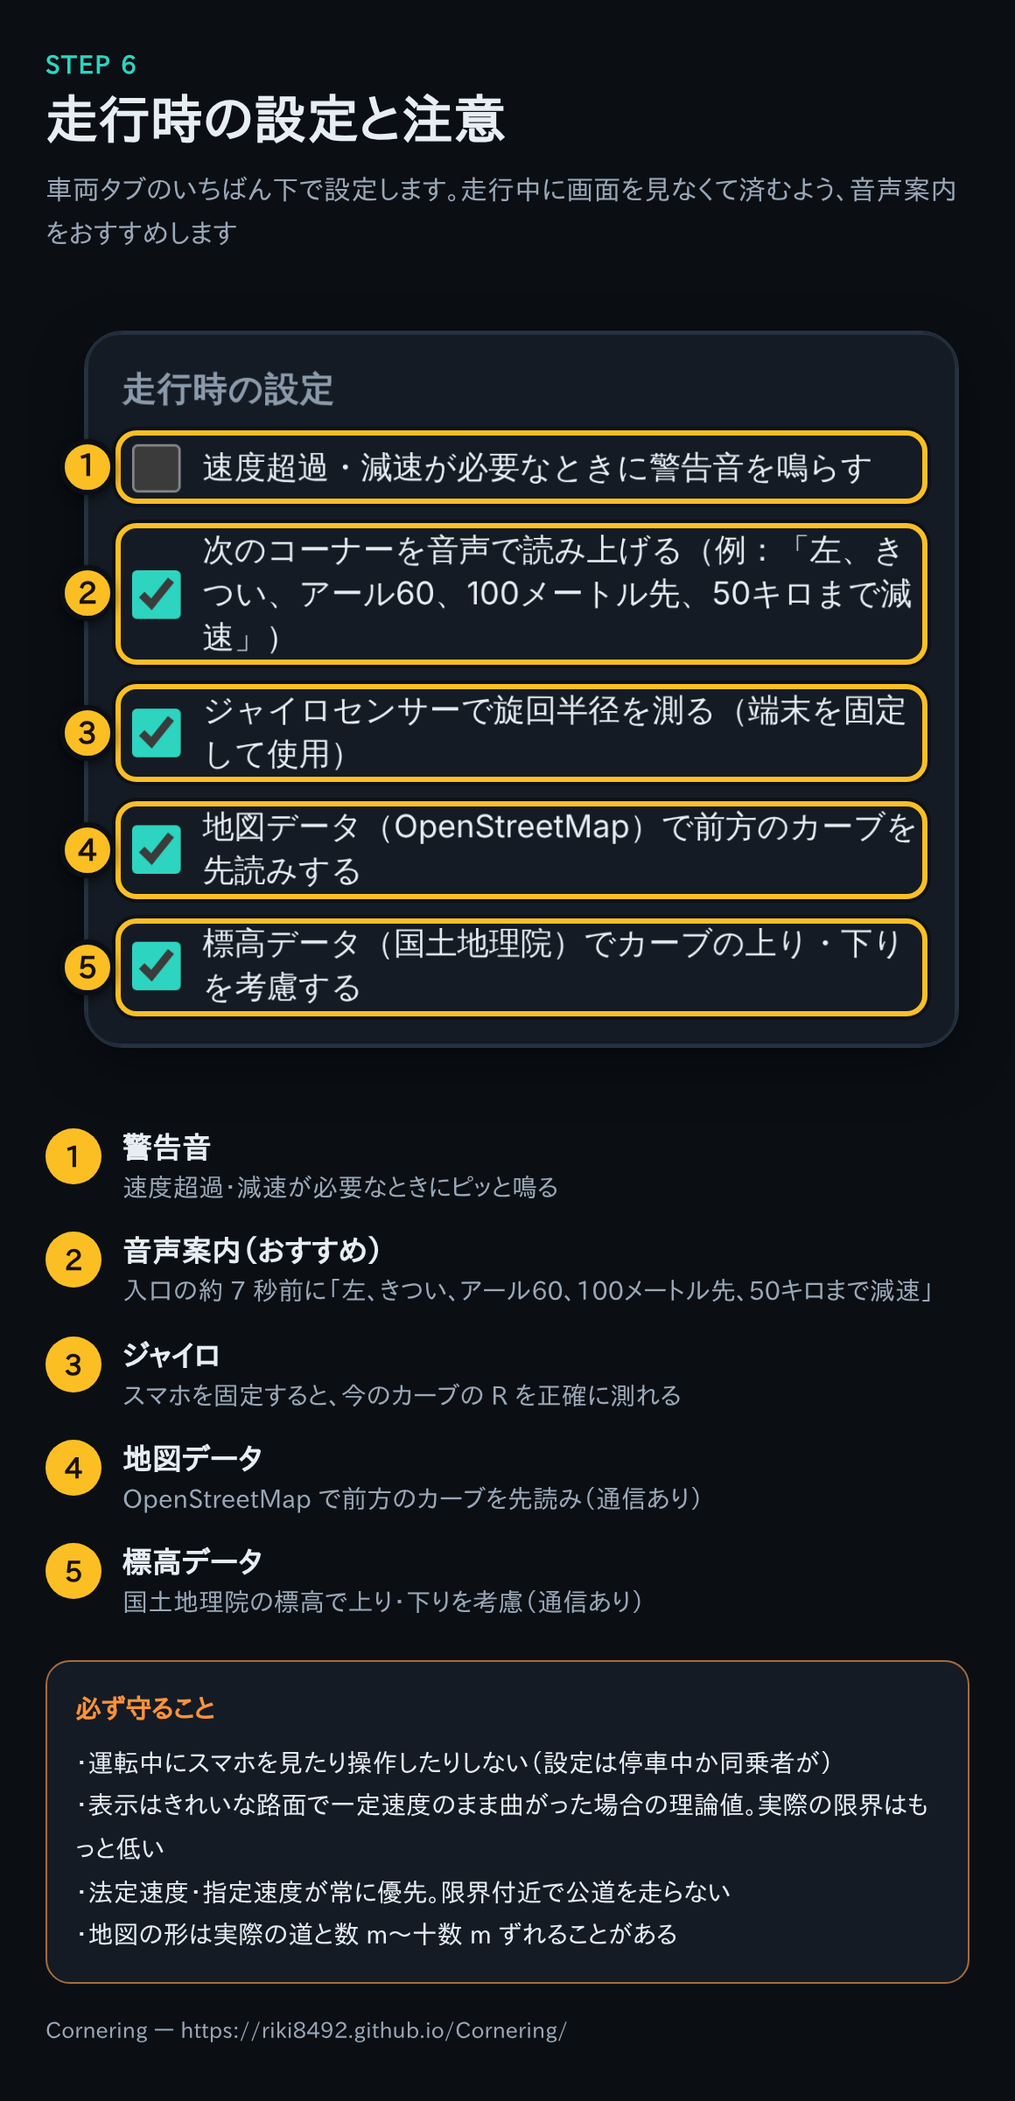
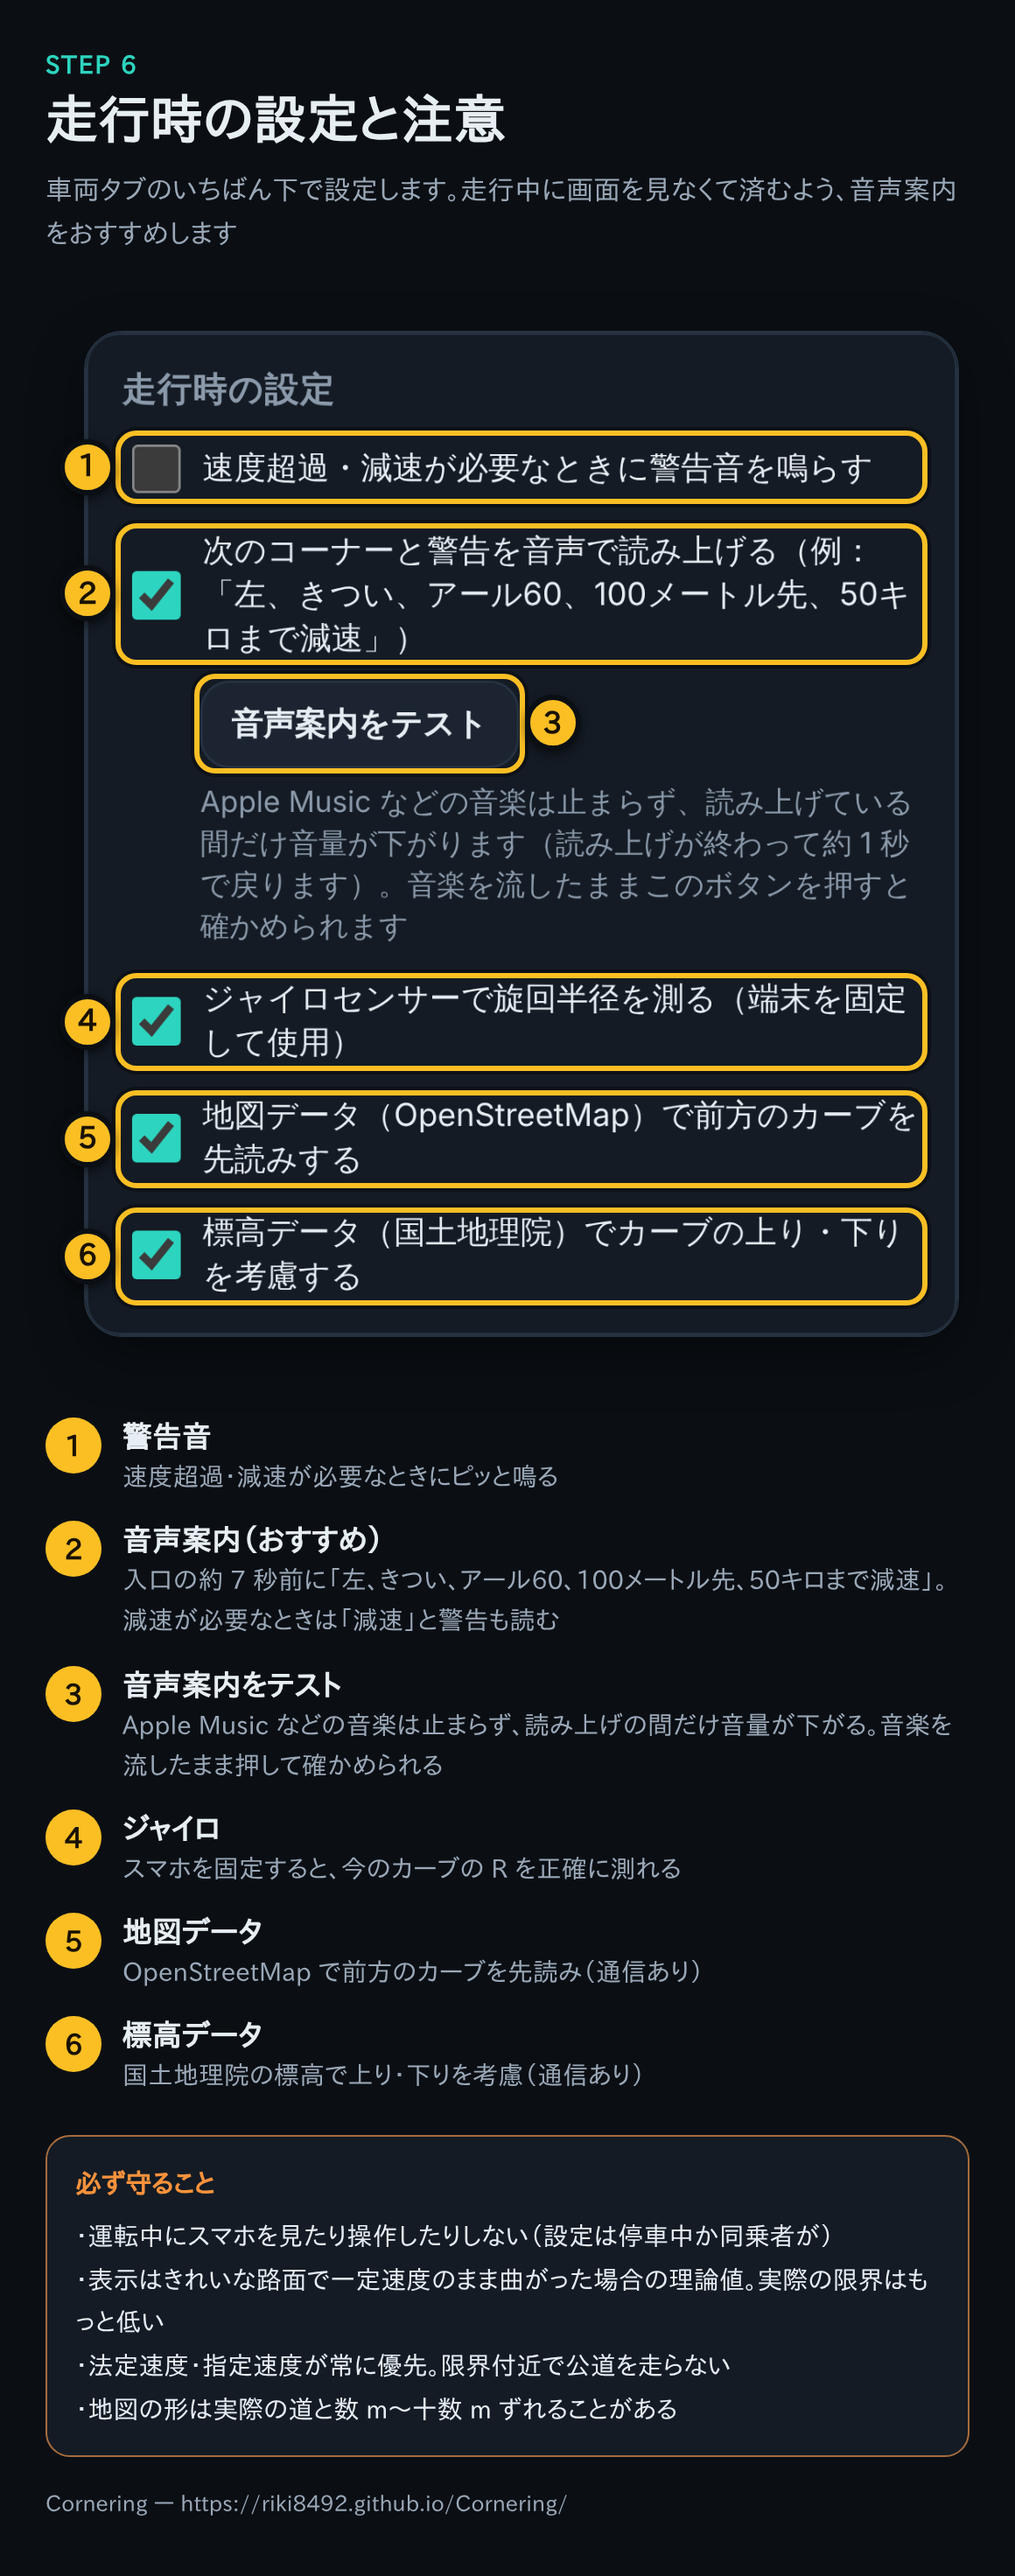
音楽を止めずに音声案内し、警告も読み上げる
Apple Music などを聞きながら走れるよう、音声まわりを見直した。
iPhone の Safari の読み上げは、ほかのアプリの音楽を止めずに読み上げの
間だけ音量を下げる（WebKit の不具合報告 278598 で確認できる動作）。
警告音の Web Audio も、仕様上は「ほかの音と混ぜて鳴らす」扱いで音楽を
止めない。そのうえで次を直した。

- 音声案内がオンなら、減速が必要なときの警告も「減速」「危険、急減速」と
  読み上げる。警告音は音楽の音量を下げないため、音楽に埋もれやすい。
  警告が強くなったときに一度だけ読み、警告が消えて 3 秒たったら次の
  警告をまた読む。「危険」は読み上げ中の案内を止めてすぐ読む
- 端末にある日本語の声のうち、拡張版（Enhanced / Premium）があれば
  それを使う
- 設定に「音声案内をテスト」ボタンを追加。音楽を流したまま押して、
  止まらずに音量が下がるかを確かめられる
- 声の一覧が取れない環境で、アプリ全体が起動しなくなる問題を防いだ
- 説明タブ・README・解説画像（STEP 6）に音楽との関係を追記

Claude-Session: https://claude.ai/code/session_01Pe4ge4SDMQG9C2WNegrDfR

diff --git a/index.html b/index.html
@@ -303,8 +303,12 @@
             </label>
             <label class="field wide check">
               <input data-pref="voice" type="checkbox" />
-              <span>次のコーナーを音声で読み上げる（例：「左、きつい、アール60、100メートル先、50キロまで減速」）</span>
+              <span>次のコーナーと警告を音声で読み上げる（例：「左、きつい、アール60、100メートル先、50キロまで減速」）</span>
             </label>
+            <div class="wide voice-test">
+              <button class="btn small" id="btn-voice-test" type="button">音声案内をテスト</button>
+              <p class="hint">Apple Music などの音楽は止まらず、読み上げている間だけ音量が下がります（読み上げが終わって約 1 秒で戻ります）。音楽を流したままこのボタンを押すと確かめられます</p>
+            </div>
             <label class="field wide check">
               <input data-pref="gyro" type="checkbox" />
               <span>ジャイロセンサーで旋回半径を測る（端末を固定して使用）</span>
@@ -339,7 +343,7 @@
             <li><b>この先のカーブ（地図）</b>：OpenStreetMap の道路形状に現在地を当てはめ、道なりに先読みして曲率を計算します。交差点では最も直進に近い道を選びます</li>
             <li><b>現在のカーブ（計測）</b>：ジャイロのヨーレート ω から R = v / ω、ジャイロが無ければ GPS の進行方位の変化率、さらに無ければ GPS 軌跡への円の当てはめで求めます</li>
             <li><b>入口・出口の標高</b>：国土地理院の標高タイル（10m メッシュ）を道路に沿って引き、カーブの入口と出口の標高差から勾配を求めます（国外は AWS Terrain Tiles）。橋・トンネルは地表の標高が使えないので前後から補間します</li>
-            <li><b>次のコーナー</b>：向き・きつさ（ヘアピン R30 未満／きつい 〜60／ややきつい 〜120／ゆるい 〜250／ごくゆるい）・入口までの距離と秒数を表示し、カードの色で状況を示します（緑：安全上限以下、橙：減速が必要、赤：入口までに強いブレーキが必要か、カーブの中で限界超え）。道路形状と地図では次のコーナーだけを太い帯・入口の線・大きなラベルで強調します。設定で音声案内をオンにすると、入口の約 7 秒前に「左、きつい、アール60、100メートル先、50キロまで減速」のように読み上げます</li>
+            <li><b>次のコーナー</b>：向き・きつさ（ヘアピン R30 未満／きつい 〜60／ややきつい 〜120／ゆるい 〜250／ごくゆるい）・入口までの距離と秒数を表示し、カードの色で状況を示します（緑：安全上限以下、橙：減速が必要、赤：入口までに強いブレーキが必要か、カーブの中で限界超え）。道路形状と地図では次のコーナーだけを太い帯・入口の線・大きなラベルで強調します。設定で音声案内をオンにすると、入口の約 7 秒前に「左、きつい、アール60、100メートル先、50キロまで減速」のように読み上げ、減速が必要なときは「減速」「危険、急減速」と警告も読み上げます。Apple Music などの音楽は止まらず、読み上げている間だけ音量が下がります</li>
             <li><b>地図・現在地</b>：走行画面の「地図・現在地」で、現在地（進行方向の矢印）・走った軌跡・この先の道路（色分け）とカーブの R を地図上に表示します。地図を指で動かすと追従が止まり、「現在地」ボタンで戻ります。右上のボタンで地理院地図・航空写真・OpenStreetMap を切り替えられます</li>
           </ul>
         </article>

diff --git a/js/app.js b/js/app.js
@@ -16,7 +16,17 @@ import {
   presetToVehicle,
 } from './presets.js';
 import { loadLeaflet, DriveMap } from './mapview.js';
-import { classifyCorner, dirLabel, secondsTo, announceDistance, cornerSpeech, isAnnounced, approachState } from './corner.js';
+import {
+  classifyCorner,
+  dirLabel,
+  secondsTo,
+  announceDistance,
+  cornerSpeech,
+  isAnnounced,
+  approachState,
+  pickJapaneseVoice,
+  alertToSpeak,
+} from './corner.js';
 
 const STORE_KEY = 'cornering.v1';
 const $ = (sel) => document.querySelector(sel);
@@ -764,6 +774,8 @@ async function start(kind) {
   stop();
   if (state.prefs.sound) ensureAudio();
   if (state.prefs.voice) speak('案内を開始します');
+  alertVoiceState.rank = 0;
+  alertVoiceState.clearSince = null;
   motion.reset();
   gpsError = '';
   gradeFallback = null;
@@ -845,7 +857,13 @@ function beep(freq, count) {
 }
 
 function soundFor(alert) {
-  if (!state.prefs.sound || !alert || mode === 'off') return;
+  if (mode === 'off') return;
+  // 音声案内がオンなら、警告も言葉で伝える（音楽を聞いていてもビープ音より聞き取りやすい）
+  if (state.prefs.voice) {
+    const text = alertToSpeak(alertVoiceState, alert?.level || null, Date.now());
+    if (text) speak(text, { interrupt: alert.level === 'danger' });
+  }
+  if (!state.prefs.sound || !alert) return;
   const now = Date.now();
   if (alert.level === 'danger' && now - lastBeep > 1500) {
     beep(1320, 3);
@@ -857,14 +875,46 @@ function soundFor(alert) {
 }
 
 // ---------- 音声案内 ----------
+// iPhone の Safari の読み上げは、Apple Music などほかのアプリの音楽を止めずに、
+// 読み上げている間だけ音量を下げる（終わって約 1 秒で戻る）。警告音（Web Audio）は
+// 「ほかの音と混ぜて鳴らす」扱いなので、こちらも音楽を止めない。
+// 音楽を止めてしまう <audio> 要素などは使わないこと
 const announced = []; // 読み上げ済みのコーナー区間 {dir, pts: [[lat, lon], ...]}
+const alertVoiceState = { rank: 0, clearSince: null }; // 警告の読み上げ状態
 const canSpeak = () => 'speechSynthesis' in window && typeof SpeechSynthesisUtterance === 'function';
+let jaVoice = null;
 
-function speak(text) {
+/** 日本語の声を選び直す。声の一覧が取れない環境でもアプリ全体を止めないよう、失敗は無視する */
+function loadVoice() {
+  try {
+    const list = window.speechSynthesis?.getVoices?.() || [];
+    jaVoice = pickJapaneseVoice(list) || jaVoice;
+  } catch {
+    /* 既定の声で読む */
+  }
+}
+if (canSpeak()) {
+  loadVoice();
+  // 声の一覧は後から届くことがある
+  try {
+    window.speechSynthesis.addEventListener?.('voiceschanged', loadVoice);
+  } catch {
+    /* 無視 */
+  }
+}
+
+/**
+ * @param {string} text
+ * @param {{interrupt?:boolean}} [o] interrupt: 読み上げ中のものを止めてすぐ読む（危険の警告）
+ */
+function speak(text, o = {}) {
   if (!canSpeak()) return;
+  if (o.interrupt) window.speechSynthesis.cancel?.();
   const u = new SpeechSynthesisUtterance(text);
   u.lang = 'ja-JP';
-  u.rate = 1.1;
+  if (jaVoice) u.voice = jaVoice;
+  u.rate = 1.05;
+  u.volume = 1;
   window.speechSynthesis.speak(u);
 }
 
@@ -1327,6 +1377,13 @@ function init() {
   bindPresets();
   bindTabs();
   bindPanels();
+  // 音楽を流したまま押して、止まらずに音量が下がるかを確かめる
+  $('#btn-voice-test').addEventListener('click', () => {
+    loadVoice();
+    speak(`音声案内のテストです。${cornerSpeech({ dir: 'left', R: 58, distStart: 100 }, 50 / 3.6, 70 / 3.6)}`, {
+      interrupt: true,
+    });
+  });
   $('#btn-start').addEventListener('click', () => (mode === 'gps' ? stop() : start('gps')));
   $('#btn-demo').addEventListener('click', () => (mode === 'demo' ? stop() : start('demo')));
   window.addEventListener('resize', scheduleRender);

diff --git a/js/corner.js b/js/corner.js
@@ -45,6 +45,43 @@ export function cornerSpeech(c, vRec, v) {
 }
 
 /**
+ * 読み上げに使う日本語の声を選ぶ。拡張（Enhanced / Premium）の声があれば聞き取りやすいので優先する
+ * @param {Array<{name:string, lang:string, localService?:boolean}>} voices speechSynthesis.getVoices() の結果
+ */
+export function pickJapaneseVoice(voices) {
+  const ja = (voices || []).filter((v) => /^ja([-_]|$)/i.test(v.lang || ''));
+  if (!ja.length) return null;
+  const score = (v) =>
+    (/(enhanced|premium|拡張|高品質)/i.test(v.name) ? 4 : 0) + (v.localService ? 1 : 0) + (/^ja[-_]JP$/i.test(v.lang) ? 1 : 0);
+  return ja.reduce((best, v) => (score(v) > score(best) ? v : best), ja[0]);
+}
+
+/** 警告の読み上げ文言（音楽を聞いているとビープ音は埋もれやすいので、言葉でも伝える） */
+export const ALERT_SPEECH = { brake: '減速', danger: '危険、急減速' };
+
+/**
+ * 警告を読み上げるかどうか。警告が強くなったときに一度だけ読み上げ、同じ強さでは繰り返さない。
+ * 警告が消えて 3 秒たったら、次の警告をまた読み上げられるようにする
+ * @param {{rank:number, clearSince:number|null}} st 前回までの状態（呼ぶたびに更新する）
+ * @param {'caution'|'brake'|'danger'|null} level 今の警告
+ * @param {number} now [ms]
+ * @returns {string|null} 読み上げる文言
+ */
+export function alertToSpeak(st, level, now) {
+  const rank = { brake: 1, danger: 2 }[level] || 0;
+  // 警告が消えてから 3 秒以上たっていれば、次の警告は新しいものとして読む
+  if (st.clearSince != null && now - st.clearSince >= 3000) st.rank = 0;
+  if (rank === 0) {
+    if (st.clearSince == null) st.clearSince = now;
+    return null;
+  }
+  st.clearSince = null;
+  if (rank <= st.rank) return null;
+  st.rank = rank;
+  return ALERT_SPEECH[level];
+}
+
+/**
  * 同じコーナーを二度読み上げないための判定。
  * 頂点（いちばんきつい点）は更新のたびに揺れ、長くゆるいカーブでは区間内のどこへでも動く。
  * そこで読み上げ済みのカーブは区間全体の点列で覚えておき、

diff --git a/tests/corner.test.js b/tests/corner.test.js
@@ -7,7 +7,35 @@ import {
   cornerSpeech,
   isAnnounced,
   approachState,
+  pickJapaneseVoice,
+  alertToSpeak,
 } from '../js/corner.js';
+
+test('読み上げの声：日本語の声のうち、拡張版があればそれを選ぶ', () => {
+  const voices = [
+    { name: 'Samantha', lang: 'en-US', localService: true },
+    { name: 'Kyoko', lang: 'ja-JP', localService: true },
+    { name: 'Kyoko (Enhanced)', lang: 'ja-JP', localService: true },
+    { name: 'Google 日本語', lang: 'ja-JP', localService: false },
+  ];
+  assert.equal(pickJapaneseVoice(voices).name, 'Kyoko (Enhanced)');
+  assert.equal(pickJapaneseVoice(voices.filter((v) => !v.name.includes('Enhanced'))).name, 'Kyoko');
+  assert.equal(pickJapaneseVoice([{ name: 'Samantha', lang: 'en-US' }]), null);
+  assert.equal(pickJapaneseVoice([]), null);
+});
+
+test('警告の読み上げ：強くなったときに一度だけ。消えて 3 秒たったらまた読む', () => {
+  const st = { rank: 0, clearSince: null };
+  assert.equal(alertToSpeak(st, 'caution', 0), null, '黄色の注意は読まない');
+  assert.equal(alertToSpeak(st, 'brake', 1000), '減速');
+  assert.equal(alertToSpeak(st, 'brake', 2000), null, '同じ強さでは繰り返さない');
+  assert.equal(alertToSpeak(st, 'danger', 3000), '危険、急減速', '強くなったら読む');
+  assert.equal(alertToSpeak(st, 'brake', 4000), null, '弱くなっただけでは読まない');
+  assert.equal(alertToSpeak(st, null, 5000), null);
+  assert.equal(alertToSpeak(st, 'brake', 6000), null, '消えて 1 秒ではまだ読まない');
+  alertToSpeak(st, null, 7000);
+  assert.equal(alertToSpeak(st, 'brake', 10500), '減速', '消えて 3 秒たったらまた読む');
+});
 
 test('きつさの分類：R が小さいほどきつい', () => {
   assert.equal(classifyCorner(25).label, 'ヘアピン');

diff --git a/sw.js b/sw.js
@@ -1,6 +1,6 @@
 // オフラインでも起動できるよう、アプリ本体をキャッシュする
 // （道路データ＝Overpass API・標高タイル・地図タイルへの通信はキャッシュしない）
-const CACHE = 'cornering-v10';
+const CACHE = 'cornering-v11';
 const ASSETS = [
   './',
   'index.html',

diff --git a/css/style.css b/css/style.css
@@ -754,6 +754,17 @@ details.card > summary::-webkit-details-marker {
   color: var(--text);
 }
 
+.voice-test {
+  display: grid;
+  gap: 6px;
+  justify-items: start;
+  margin: -4px 0 0 32px;
+}
+
+.voice-test .hint {
+  margin: 0;
+}
+
 .field.check input {
   width: 20px;
   height: 20px;

diff --git a/README.md b/README.md
@@ -63,7 +63,7 @@
 
 | 画面 | 内容 |
 | --- | --- |
-| 走行 | GPS・ジャイロで「いま曲がっているカーブ」の R を計測し、OpenStreetMap の道路形状から「この先のカーブ」の R と距離、国土地理院の標高から入口・出口の標高と勾配を先読み。安全上限速度・理論限界速度を表示し、減速が必要なら警告（音も可）。下段は「道路形状」と「地図・現在地」（現在地・軌跡・この先の道路とカーブの R を地図に表示）を切り替え。次のコーナーは向き・きつさ・距離・秒数・必要な減速を大きく表示し、緑／橙／赤で状況を示す。道路形状と地図でも次のコーナーだけを強調し、音声案内（任意）で入口の約 7 秒前に読み上げ |
+| 走行 | GPS・ジャイロで「いま曲がっているカーブ」の R を計測し、OpenStreetMap の道路形状から「この先のカーブ」の R と距離、国土地理院の標高から入口・出口の標高と勾配を先読み。安全上限速度・理論限界速度を表示し、減速が必要なら警告（音も可）。下段は「道路形状」と「地図・現在地」（現在地・軌跡・この先の道路とカーブの R を地図に表示）を切り替え。次のコーナーは向き・きつさ・距離・秒数・必要な減速を大きく表示し、緑／橙／赤で状況を示す。道路形状と地図でも次のコーナーだけを強調し、音声案内（任意）で入口の約 7 秒前に読み上げ。減速が必要なときは警告も読み上げる。Apple Music などの音楽は止めず、読み上げの間だけ音量を下げる（iPhone の Safari の読み上げの動作） |
 | 計算 | 任意の R・路面・片勾配・入口/出口の標高に対する上限速度、限界を決める要因、転覆限界、道路構造令上の設計速度、低速時の舵角・内輪差。半径別の速度表 |
 | 車両 | 車両諸元の入力（人気車種のプルダウンから一括入力も可）と、そこから推定した計算用パラメータの確認・上書き |
 | デモ走行 | 架空の峠道を自動で走らせて、机上で動作を確認できます |
